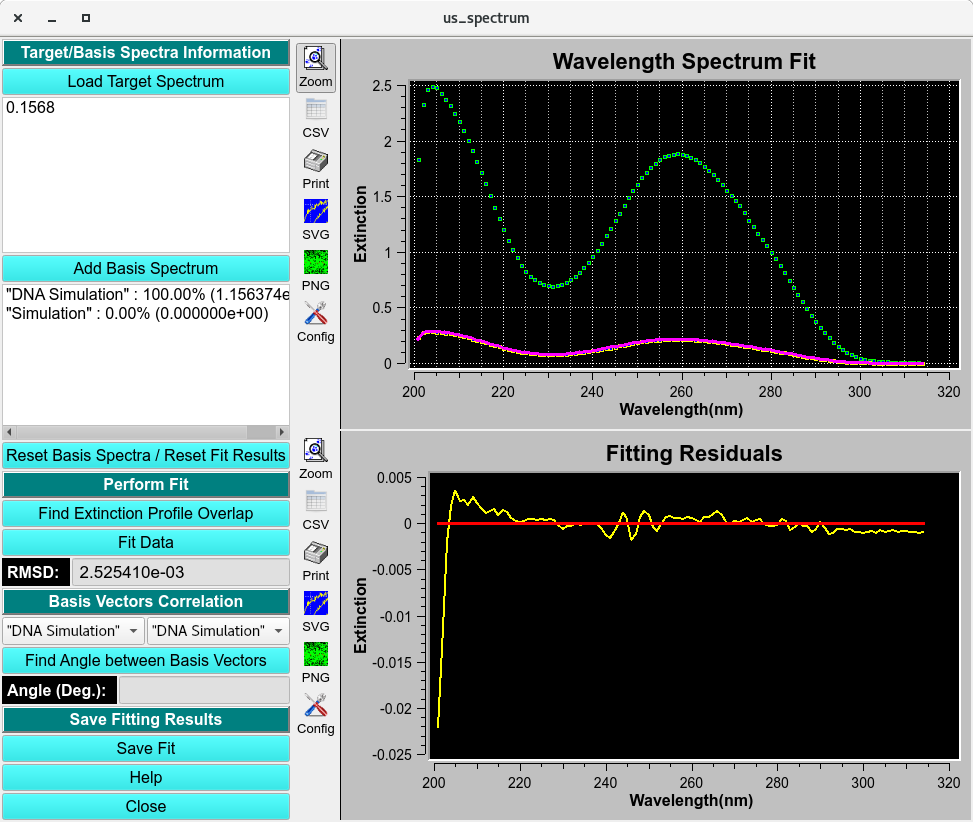
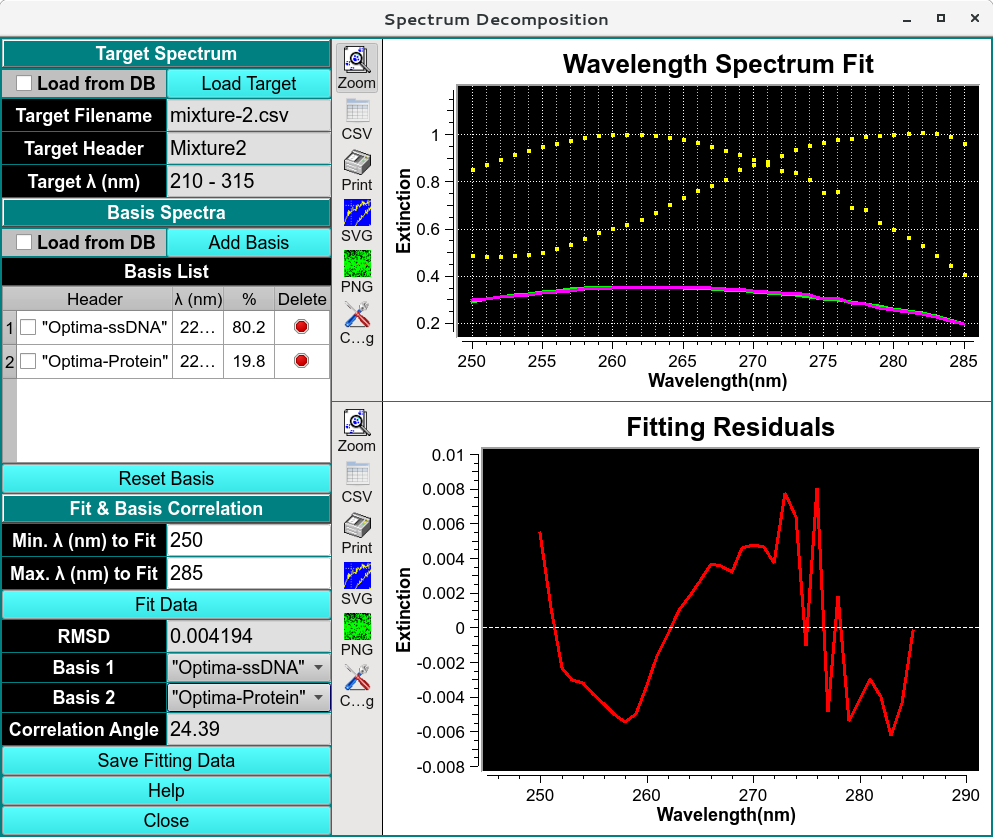
us_buoyancy introduction, Us_spectrum introduction,images and application updated.

diff --git a/doc/manual/source/us_spectrum.rst b/doc/manual/source/us_spectrum.rst
@@ -7,11 +7,11 @@ Spectrum Decomposition
 
 .. contents:: Index
   :local: 
-  
-The Spectrum Decomposition module helps you interpret the components of a mixture spectra by fitting to the known intrinsic extinction profiles (basis vectors) of each component. Using CSV inputs, you can load a mixture spectrum and one or more basis spectra, fit the basis set to the mixture, and quantify the percent contribution of each component. The module also includes a vector-angle tool to compare spectra and measure the angle between two basis vectors. 
+
+The Spectrum Decomposition module of UltraScan is used to determine the composition of a mixture of two or more spectrally unique species in a mixture (the basis spectra). The approach used here is to assume a linear relationship between the spectral basis composition, and their partial concentration in an unknown mixture for which an absorbance spectrum exists (the target spectrum). This module solves two problems: 1. measure the relative concentration of each species, and 2. measure the spectral distance between two basis spectra. The larger the spectral distance, the better the two species can be resolved. The assumption is made that all spectral basis add linearly to represent the composite spectrum. This is not always true, as spectral properties may slightly change upon binding, causing a hyper/hypochromic shift in the absorbance spectrum due to slight changes in the chemical environment of the chromophore. Residuals can be inspected to determine if such spectral shifts exist.. 
 
 
-.. image:: _static/images/us_spectrum-0.png
+.. image:: _static/images/us_spectrum-0-upded.png
     :align: center
 
 .. rst-class::
@@ -21,10 +21,12 @@ The Spectrum Decomposition module helps you interpret the components of a mixtur
 
 Process:
 =========
+.. note::
+    This module is used to estimate the composition of an unknown sample to be measured by a multi-wavelength AUC experiment before the experiment is performed. The measurement requires the availability of two or more basis spectra for the pure, absorbing species present in the unknown sample. The basis spectra should be in the same unit (e.g., optical density, molar concentration) and on the same scale (e.g., molar, millimolar), and cover the same wavelength range and resolution. If the solution buffer has its own absorbance, a basis spectrum for the buffer solution must be included. Any calculations should be performed with spectral basis that were measured in the sample buffer after extensive dialysis against this buffer, and after blanking the spectrophotometer against the analyte buffer. Absorbance spectra used for analysis in this module should be fitted from a dilution series using the Spectrum Fitter module.
 
 1. **Load Target Spectrum:** and **Load Basis Spectrum**, 
 
-To load the target spectrum, click the **Load Target Spectrum** button and select the csv file from a file manager window. A **Load CSV Files** window will pop-up to select the Delimiter-separated value, edit the header and inspect data. 
+To load the target spectrum, click the **Load Target** button and select the csv file from a file manager window. A **Load CSV Files** window will pop-up to select the Delimiter-separated value, edit the header and inspect data. 
 
 .. image:: _static/images/us_spectrum-load.png
     :align: center
@@ -34,15 +36,12 @@ To load the target spectrum, click the **Load Target Spectrum** button and selec
 
     **Load CSV File**
 
-2. Click **Accept** and the data will be imported and displayed on the Absorbance and Extinction Profile plot. Repeat for each basis vector by clicking the **Add Basis Spectrum** button and load the intrinsic spectrum profile.  
 
-.. image:: _static/images/us_spectrum-1.png
-    :align: center
+.. note::
+    Before fitting, at least two spectra need to be loaded. The wavelength range can be adjusted by changing the Min/Max lambda range to be fitted.
 
-.. rst-class::
-    :align: center
 
-    **Loaded Spectrum Decomposition**
+2. Click **Accept** and the data will be imported and displayed on the Absorbance and Extinction Profile plot. Repeat for each basis vector by clicking the **Add Basis** button and load the intrinsic spectrum profile.  
 
 3. **Find profile overlap** and **Fit Data**
 
@@ -56,4 +55,5 @@ Cut the dat by clicking **Find Extinction Profile Overlay** and trimming the dat
 
     **Spectrum Decomposition**
 
-    
+.. important::
+    The difference is reported in terms of a **Correlation Angle**, which can be between 0-90 degrees. A 90 degree difference means that the basis spectra are 100% orthogonal, while a 0 degree difference means that the basis spectra are linearly dependent, i.e., are simply multiples of each other. For a successful multi-wavelength AUC spectral decomposition, a difference of 25 degrees or more is recommended, as well as a fitting RMSD of 0.005 or less. Changing the spectral fitting range allows the user to optimize the wavelength range that should be used in a multi-wavelength AUC experiment. Here, the number of wavelengths needed should be minimized, while the correlation angle should be maximized. 

diff --git a/doc/manual/source/us_buoyancy.rst b/doc/manual/source/us_buoyancy.rst
@@ -8,9 +8,10 @@ Buoyancy Equilibrium Data Analysis
 .. contents:: Index
   :local: 
   
- 
-Peak selection 
+.. caution::
+  This module is designed to determine the density and partial specific volume of peak positions in a gradient forming solution at equilibrium, for example, in analytical buoyant density gradient experiments (ABDE) experiments. The model's original numerical calculation does not take into account certain non-ideality conditions encountered in CsCl, a topic that is currently under investigation. Until an update is available, the density results obtained in CsCl gradients could be inaccurate.
 
+  
 .. image:: _static/images/abde-1.png
     :align: center
 
